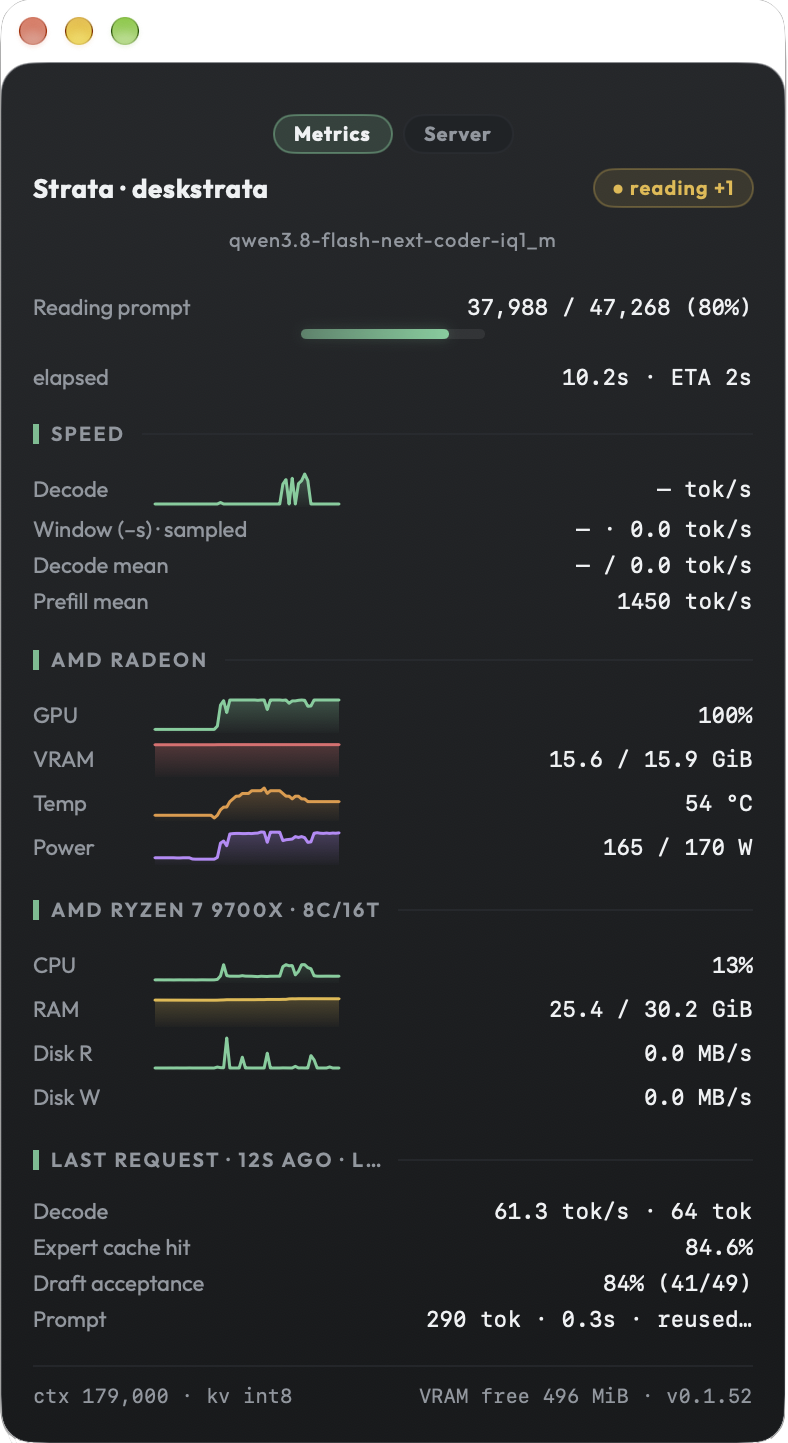
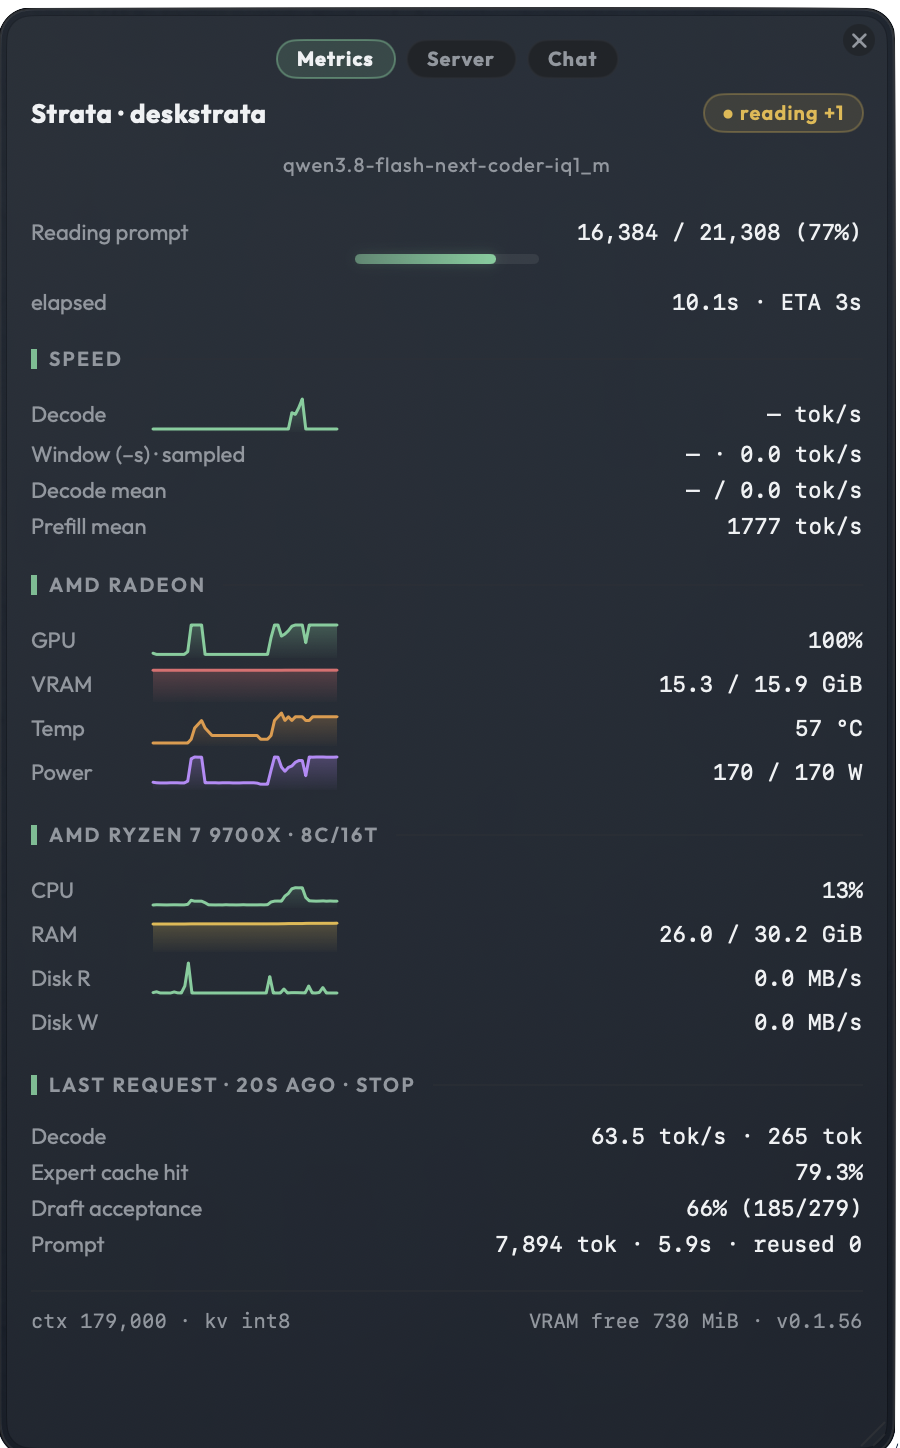
Add mini and chat screenshots to README

diff --git a/README.md b/README.md
@@ -8,6 +8,8 @@ another model.
 | Metrics tab | Server tab |
 |---|---|
 | ![Strata widget — Metrics tab](docs/screenshots/metrics.png) | ![Strata widget — Server tab](docs/screenshots/server.png) |
+| **Mini card** (compact view) | **Chat** window |
+| ![Strata widget — Mini card](docs/screenshots/mini.png) | ![Strata widget — Chat](docs/screenshots/chat.png) |
 
 **This is my personal tool.** I built it for my own setup — two machines, two
 servers, several models per machine — and it is shaped around how I actually run
